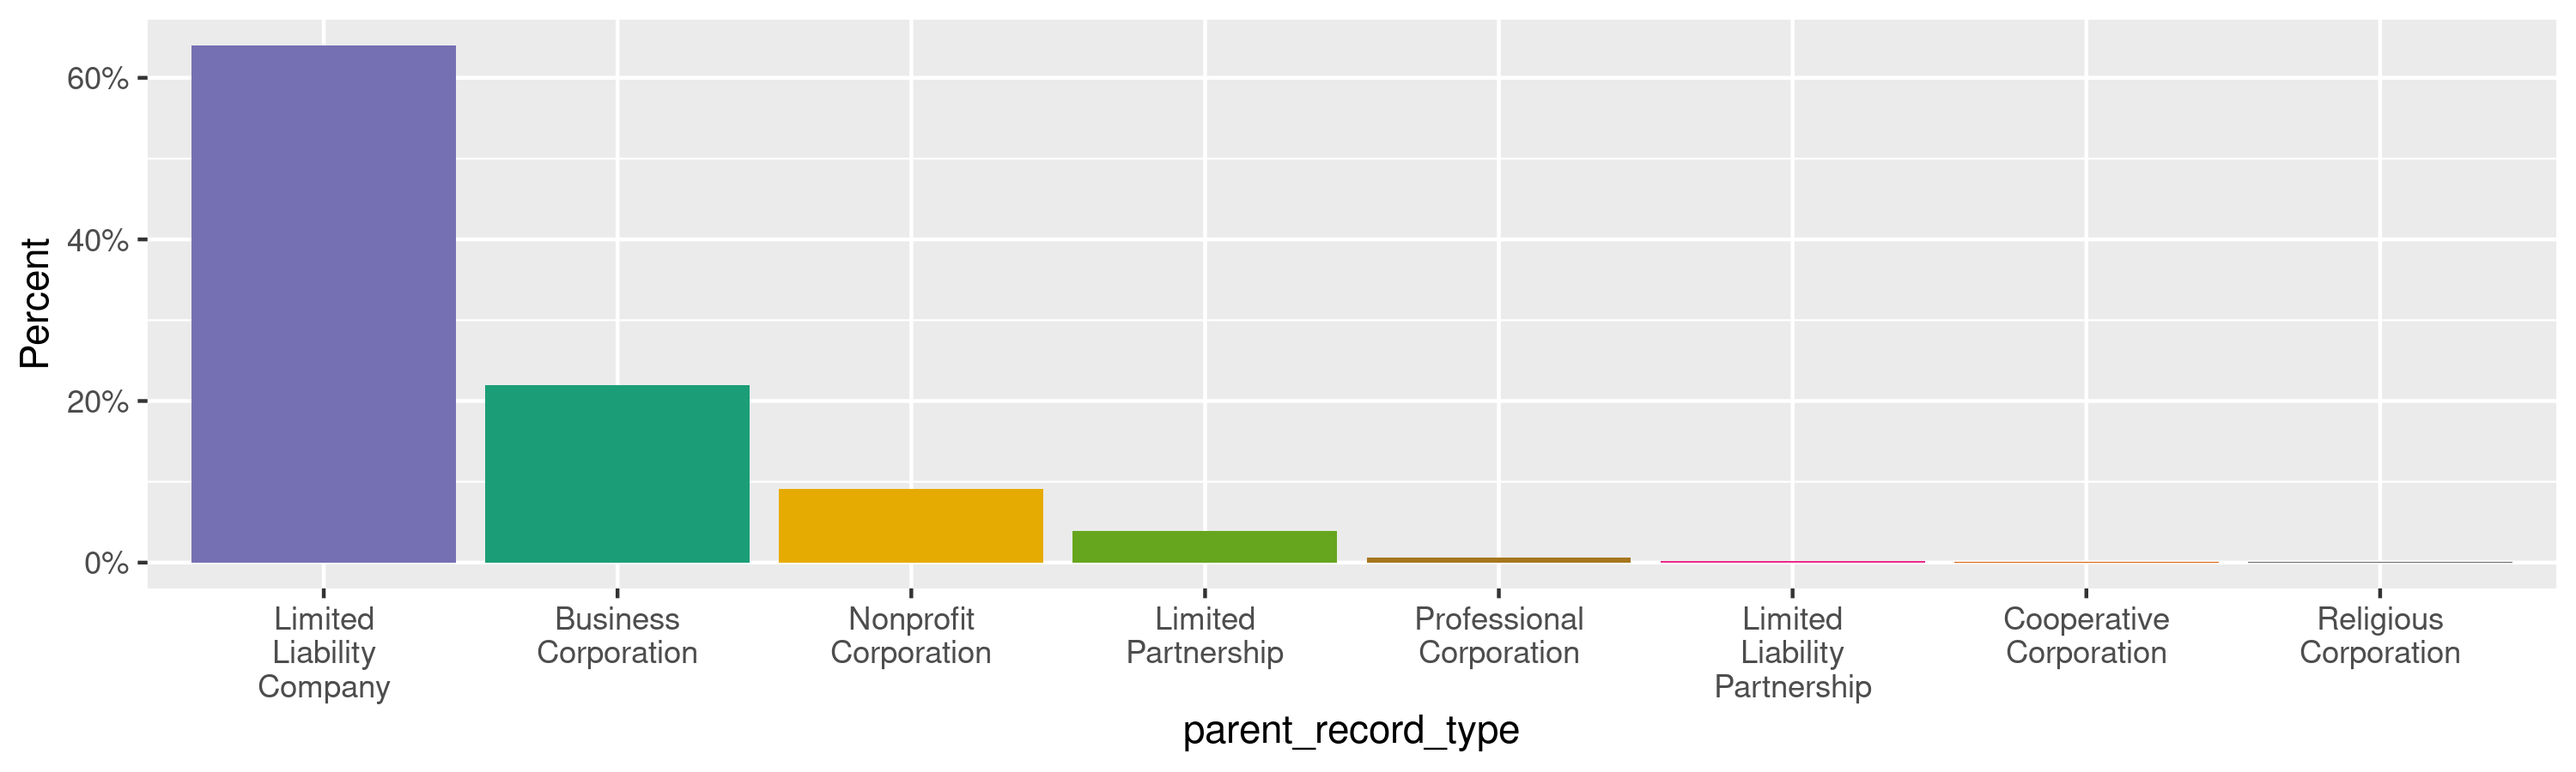
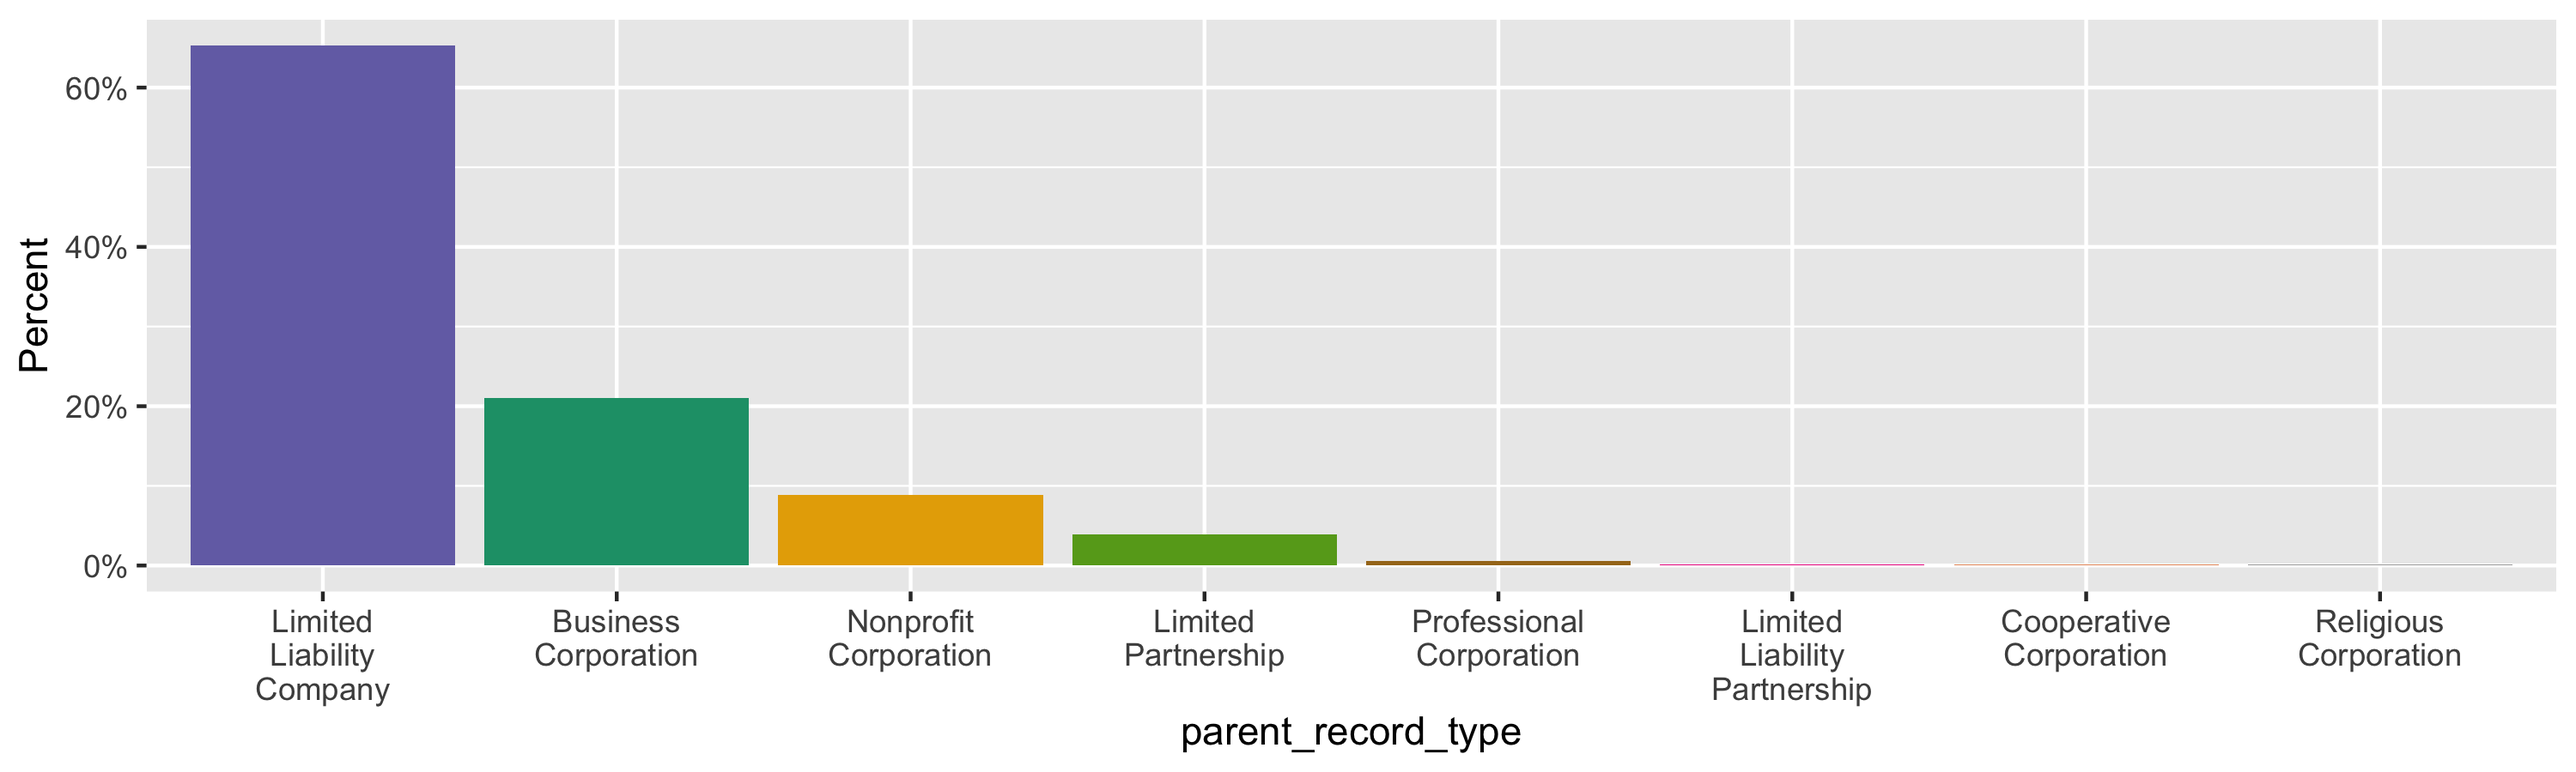
Ak agents april 2023

diff --git a/state/ak/agents/docs/ak_agents_diary.md b/state/ak/agents/docs/ak_agents_diary.md
@@ -1,22 +1,22 @@
 Alaska Agents
 ================
-Kiernan Nicholls
-Mon Jun 27 11:23:56 2022
+Kiernan Nicholls & Aarushi Sahejpal
+Fri Apr 28 06:15:57 2023
 
--   <a href="#project" id="toc-project">Project</a>
--   <a href="#objectives" id="toc-objectives">Objectives</a>
--   <a href="#packages" id="toc-packages">Packages</a>
--   <a href="#source" id="toc-source">Source</a>
-    -   <a href="#disclaimer" id="toc-disclaimer">Disclaimer</a>
--   <a href="#download" id="toc-download">Download</a>
--   <a href="#read" id="toc-read">Read</a>
--   <a href="#explore" id="toc-explore">Explore</a>
-    -   <a href="#missing" id="toc-missing">Missing</a>
-    -   <a href="#duplicates" id="toc-duplicates">Duplicates</a>
-    -   <a href="#categorical" id="toc-categorical">Categorical</a>
--   <a href="#conclude" id="toc-conclude">Conclude</a>
--   <a href="#export" id="toc-export">Export</a>
--   <a href="#upload" id="toc-upload">Upload</a>
+- <a href="#project" id="toc-project">Project</a>
+- <a href="#objectives" id="toc-objectives">Objectives</a>
+- <a href="#packages" id="toc-packages">Packages</a>
+- <a href="#source" id="toc-source">Source</a>
+  - <a href="#disclaimer" id="toc-disclaimer">Disclaimer</a>
+- <a href="#download" id="toc-download">Download</a>
+- <a href="#read" id="toc-read">Read</a>
+- <a href="#explore" id="toc-explore">Explore</a>
+  - <a href="#missing" id="toc-missing">Missing</a>
+  - <a href="#duplicates" id="toc-duplicates">Duplicates</a>
+  - <a href="#categorical" id="toc-categorical">Categorical</a>
+- <a href="#conclude" id="toc-conclude">Conclude</a>
+- <a href="#export" id="toc-export">Export</a>
+- <a href="#upload" id="toc-upload">Upload</a>
 
 <!-- Place comments regarding knitting here -->
 
@@ -78,11 +78,11 @@ pacman::p_load(
 )
 ```
 
-This diary was run using `campfin` version 1.0.8.9300.
+This diary was run using `campfin` version 1.0.10.9001.
 
 ``` r
 packageVersion("campfin")
-#> [1] '1.0.8.9300'
+#> [1] '1.0.10.9001'
 ```
 
 This document should be run as part of the `R_tap` project, which lives
@@ -177,30 +177,32 @@ aka <- clean_names(aka, case = "snake")
 
 ## Explore
 
-There are 85,387 rows of 7 columns. Each record represents a single
+There are 87,930 rows of 7 columns. Each record represents a single
 agent of a registered business entity.
 
 ``` r
 glimpse(aka)
-#> Rows: 85,387
+#> Rows: 87,930
 #> Columns: 7
-#> $ parent_entity_number         <chr> "104365", "104686", "67254D", "125456", "115108", "110111", "75704D", "105255", "…
-#> $ parent_entity_name           <chr> "Ginger LLC", "Blue Sky Hangars, LLC", "Frontier Electric, Inc.", "R.S. Armstrong…
-#> $ parent_record_type           <chr> "Limited Liability Company", "Limited Liability Company", "Business Corporation",…
+#> $ parent_entity_number         <chr> "105099", "105719", "115970", "75704D", "105255", "105598", "105735", "72575D", "…
+#> $ parent_entity_name           <chr> "Alaska Avalanche Specialists, LLC.", "Andes Properties, LLC", "Fairmont, LLC", "…
+#> $ parent_record_type           <chr> "Limited Liability Company", "Limited Liability Company", "Limited Liability Comp…
 #> $ official_entity_number       <chr> NA, NA, NA, NA, NA, NA, NA, NA, NA, NA, NA, NA, NA, NA, NA, NA, NA, NA, NA, NA, N…
-#> $ official_last_or_entity_name <chr> "Handel", "Fishback", "Lillo", "Armstrong", "Chastain", "Lucas", "Alderman", "Kin…
-#> $ official_first_name          <chr> "Colleen M.", "Steve", "John", "Richard S.", "Bradley H.", "Derek Harland", "Mark…
+#> $ official_last_or_entity_name <chr> "Glude", "Andes", "Green", "Alderman", "Kinney", "Housley", "SWEATT", "Kalmbach",…
+#> $ official_first_name          <chr> "William J", "Alex", "Harold", "Mark C", "James Randall", "James M.", "JESS E.", …
 #> $ official_title               <chr> "Registered Agent", "Registered Agent", "Registered Agent", "Registered Agent", "…
 tail(aka)
 #> # A tibble: 6 × 7
-#>   parent_entity_num… parent_entity_n… parent_record_t… official_entity… official_last_o… official_first_… official_title
-#>   <chr>              <chr>            <chr>            <chr>            <chr>            <chr>            <chr>         
-#> 1 10166575           Hanuman Family … Limited Liabili… <NA>             Wilkin           Oratai           Registered Ag…
-#> 2 10194719           Stonerock's Ser… Limited Liabili… <NA>             Stonerock        Quentin          Registered Ag…
-#> 3 10195116           QUEST LLC        Limited Liabili… <NA>             Carnahan         Jesse            Registered Ag…
-#> 4 10195974           Frosty Feet Tim… Limited Liabili… <NA>             Fisk             Stacy            Registered Ag…
-#> 5 10196423           Forays Group, I… Business Corpor… <NA>             Anderson         Jerrad           Registered Ag…
-#> 6 10196727           Coach Gettys, L… Limited Liabili… <NA>             Gettys           April            Registered Ag…
+#>   parent_entity_number parent_entity_name               parent_record_type official_entity_number official_last_or_ent…¹
+#>   <chr>                <chr>                            <chr>              <chr>                  <chr>                 
+#> 1 10227513             Swell Creative, LLC              Limited Liability… <NA>                   Smithers              
+#> 2 10183940             STRATAVARIOUS LLC                Limited Liability… <NA>                   Paddock               
+#> 3 10184096             Park Consulting LLC              Limited Liability… <NA>                   Park                  
+#> 4 10228649             Jennifer Cross LPC, LLC          Limited Liability… <NA>                   Cross                 
+#> 5 10229064             Original Clothing L.L.C.         Limited Liability… <NA>                   Warlick               
+#> 6 10231033             Engage Accounting and Consultin… Limited Liability… <NA>                   Kolipano              
+#> # ℹ abbreviated name: ¹official_last_or_entity_name
+#> # ℹ 2 more variables: official_first_name <chr>, official_title <chr>
 ```
 
 ### Missing
@@ -216,9 +218,9 @@ col_stats(aka, count_na)
 #> 1 parent_entity_number         <chr>     0 0    
 #> 2 parent_entity_name           <chr>     0 0    
 #> 3 parent_record_type           <chr>     0 0    
-#> 4 official_entity_number       <chr> 50190 0.588
+#> 4 official_entity_number       <chr> 51068 0.581
 #> 5 official_last_or_entity_name <chr>     0 0    
-#> 6 official_first_name          <chr> 35401 0.415
+#> 6 official_first_name          <chr> 37060 0.421
 #> 7 official_title               <chr>     0 0
 ```
 
@@ -229,20 +231,20 @@ registered *as* the official.
 aka %>% 
   filter(is.na(official_first_name)) %>% 
   count(official_last_or_entity_name, sort = TRUE)
-#> # A tibble: 564 × 2
+#> # A tibble: 538 × 2
 #>    official_last_or_entity_name               n
 #>    <chr>                                  <int>
-#>  1 Corporation Service Company             5882
-#>  2 C T Corporation System                  5526
-#>  3 LMRA Services, Inc.                     5247
-#>  4 Registered Agents Inc                   2185
-#>  5 COGENCY GLOBAL INC.                     1635
-#>  6 United States Corporation Agents, Inc.  1134
-#>  7 INCORP SERVICES, INC.                   1018
-#>  8 NATIONAL REGISTERED AGENTS, INC.         941
-#>  9 Registered Agent Solutions, Inc.         829
-#> 10 Northwest Registered Agent Inc           765
-#> # … with 554 more rows
+#>  1 Corporation Service Company             6192
+#>  2 C T Corporation System                  5585
+#>  3 LMRA Services, Inc.                     5349
+#>  4 Registered Agents Inc                   2529
+#>  5 COGENCY GLOBAL INC.                     1713
+#>  6 United States Corporation Agents, Inc.  1226
+#>  7 Northwest Registered Agent Inc          1016
+#>  8 INCORP SERVICES, INC.                    995
+#>  9 NATIONAL REGISTERED AGENTS, INC.         910
+#> 10 Registered Agent Solutions, Inc.         899
+#> # ℹ 528 more rows
 ```
 
 ### Duplicates
@@ -252,27 +254,29 @@ We can flag any record completely duplicated across every column.
 ``` r
 aka <- flag_dupes(aka, everything())
 sum(aka$dupe_flag)
-#> [1] 700
+#> [1] 730
 ```
 
 ``` r
 aka %>% 
   filter(dupe_flag) %>% 
   arrange(parent_entity_name)
-#> # A tibble: 700 × 8
-#>    parent_entity_nu… parent_entity_n… parent_record_t… official_entity… official_last_o… official_first_… official_title
-#>    <chr>             <chr>            <chr>            <chr>            <chr>            <chr>            <chr>         
-#>  1 10082727          1-7178 Fairweat… Limited Liabili… 10014663         Anderson Regist… <NA>             Registered Ag…
-#>  2 10082727          1-7178 Fairweat… Limited Liabili… 10014663         Anderson Regist… <NA>             Registered Ag…
-#>  3 10157959          10200 Nigh Rd, … Limited Liabili… 10014663         Anderson Regist… <NA>             Registered Ag…
-#>  4 10157959          10200 Nigh Rd, … Limited Liabili… 10014663         Anderson Regist… <NA>             Registered Ag…
-#>  5 10167468          1033 Zakandra, … Limited Liabili… 10014663         Anderson Regist… <NA>             Registered Ag…
-#>  6 10167468          1033 Zakandra, … Limited Liabili… 10014663         Anderson Regist… <NA>             Registered Ag…
-#>  7 10172975          10712 Lunar, LLC Limited Liabili… 10014663         Anderson Regist… <NA>             Registered Ag…
-#>  8 10172975          10712 Lunar, LLC Limited Liabili… 10014663         Anderson Regist… <NA>             Registered Ag…
-#>  9 10176155          10841 Klutina L… Limited Liabili… 10014663         Anderson Regist… <NA>             Registered Ag…
-#> 10 10176155          10841 Klutina L… Limited Liabili… 10014663         Anderson Regist… <NA>             Registered Ag…
-#> # … with 690 more rows, and 1 more variable: dupe_flag <lgl>
+#> # A tibble: 730 × 8
+#>    parent_entity_number parent_entity_name      parent_record_type        official_entity_number official_last_or_enti…¹
+#>    <chr>                <chr>                   <chr>                     <chr>                  <chr>                  
+#>  1 10082727             1-7178 Fairweather, LLC Limited Liability Company 10014663               Anderson Registered Ag…
+#>  2 10082727             1-7178 Fairweather, LLC Limited Liability Company 10014663               Anderson Registered Ag…
+#>  3 10157959             10200 Nigh Rd, LLC      Limited Liability Company 10014663               Anderson Registered Ag…
+#>  4 10157959             10200 Nigh Rd, LLC      Limited Liability Company 10014663               Anderson Registered Ag…
+#>  5 10167468             1033 Zakandra, LLC      Limited Liability Company 10014663               Anderson Registered Ag…
+#>  6 10167468             1033 Zakandra, LLC      Limited Liability Company 10014663               Anderson Registered Ag…
+#>  7 10202415             10630 Tahneeta, LLC     Limited Liability Company 10014663               Anderson Registered Ag…
+#>  8 10202415             10630 Tahneeta, LLC     Limited Liability Company 10014663               Anderson Registered Ag…
+#>  9 10172975             10712 Lunar, LLC        Limited Liability Company 10014663               Anderson Registered Ag…
+#> 10 10172975             10712 Lunar, LLC        Limited Liability Company 10014663               Anderson Registered Ag…
+#> # ℹ 720 more rows
+#> # ℹ abbreviated name: ¹official_last_or_entity_name
+#> # ℹ 3 more variables: official_first_name <chr>, official_title <chr>, dupe_flag <lgl>
 ```
 
 ### Categorical
@@ -282,14 +286,14 @@ col_stats(aka, n_distinct)
 #> # A tibble: 8 × 4
 #>   col                          class     n         p
 #>   <chr>                        <chr> <int>     <dbl>
-#> 1 parent_entity_number         <chr> 85037 0.996    
-#> 2 parent_entity_name           <chr> 85036 0.996    
-#> 3 parent_record_type           <chr>     9 0.000105 
-#> 4 official_entity_number       <chr>   378 0.00443  
-#> 5 official_last_or_entity_name <chr> 19748 0.231    
-#> 6 official_first_name          <chr> 11307 0.132    
-#> 7 official_title               <chr>     1 0.0000117
-#> 8 dupe_flag                    <lgl>     2 0.0000234
+#> 1 parent_entity_number         <chr> 87565 0.996    
+#> 2 parent_entity_name           <chr> 87563 0.996    
+#> 3 parent_record_type           <chr>     9 0.000102 
+#> 4 official_entity_number       <chr>   357 0.00406  
+#> 5 official_last_or_entity_name <chr> 20162 0.229    
+#> 6 official_first_name          <chr> 11399 0.130    
+#> 7 official_title               <chr>     1 0.0000114
+#> 8 dupe_flag                    <lgl>     2 0.0000227
 ```
 
 ![](../plots/distinct-plots-1.png)<!-- -->
@@ -300,18 +304,18 @@ col_stats(aka, n_distinct)
 glimpse(sample_n(aka, 1000))
 #> Rows: 1,000
 #> Columns: 8
-#> $ parent_entity_number         <chr> "10009051", "57642D", "10072214", "10136191", "10080234", "10079590", "10170455",…
-#> $ parent_entity_name           <chr> "Agua Dulce Land Company, L.L.C.", "INTERIOR MECHANICAL SERVICES, INC.", "PAPA BE…
-#> $ parent_record_type           <chr> "Limited Liability Company", "Business Corporation", "Business Corporation", "Lim…
-#> $ official_entity_number       <chr> NA, NA, NA, NA, "46429F", "137082", NA, NA, NA, "46429F", NA, NA, NA, NA, "77893F…
-#> $ official_last_or_entity_name <chr> "Galvez", "BEEMAN", "ESSIAN", "McCourtney", "Corporation Service Company", "URS A…
-#> $ official_first_name          <chr> "Carlos", "RANDALL", "JUSTIN", "David", NA, NA, "Yasiel", "Jerry", "Nate", NA, "T…
+#> $ parent_entity_number         <chr> "32929D", "10164161", "132249", "66090D", "10069422", "10054439", "10201103", "10…
+#> $ parent_entity_name           <chr> "SUTLIFF'S HARDWARE, INC.", "BRIGHTON PLACE, LIMITED PARTNERSHIP", "S & F Fisheri…
+#> $ parent_record_type           <chr> "Business Corporation", "Limited Partnership", "Limited Liability Company", "Limi…
+#> $ official_entity_number       <chr> NA, "10045051", NA, NA, "79048F", "77446D", NA, NA, "10021053", "88971D", NA, NA,…
+#> $ official_last_or_entity_name <chr> "ZIMMERMAN", "LMRA Services, Inc.", "Miles", "PRUHS", "Registered Agent Solutions…
+#> $ official_first_name          <chr> "DON", NA, "Maryann", "J. DANA", NA, NA, "JESSE", "Jana", NA, NA, "Jeffrey", "Gir…
 #> $ official_title               <chr> "Registered Agent", "Registered Agent", "Registered Agent", "Registered Agent", "…
 #> $ dupe_flag                    <lgl> FALSE, FALSE, FALSE, FALSE, FALSE, FALSE, FALSE, FALSE, FALSE, FALSE, FALSE, FALS…
 ```
 
-1.  There are 85,387 records in the database.
-2.  There are 700 duplicate records in the database.
+1.  There are 87,930 records in the database.
+2.  There are 730 duplicate records in the database.
 3.  The range and distribution of `amount` and `date` seem reasonable.
 4.  There are 0 records missing key variables.
 5.  Consistency in geographic data has been improved with
@@ -330,14 +334,14 @@ csv_ts <- str_remove_all(today(), "-")
 clean_csv <- path(clean_dir, glue("ak_agents_{csv_ts}.csv"))
 clean_rds <- path_ext_set(clean_csv, "rds")
 basename(clean_csv)
-#> [1] "ak_agents_20220627.csv"
+#> [1] "ak_agents_20230428.csv"
 ```
 
 ``` r
 write_csv(aka, clean_csv, na = "")
 write_rds(aka, clean_rds, compress = "xz")
 (clean_size <- file_size(clean_csv))
-#> 8.67M
+#> 8.94M
 ```
 
 ## Upload
